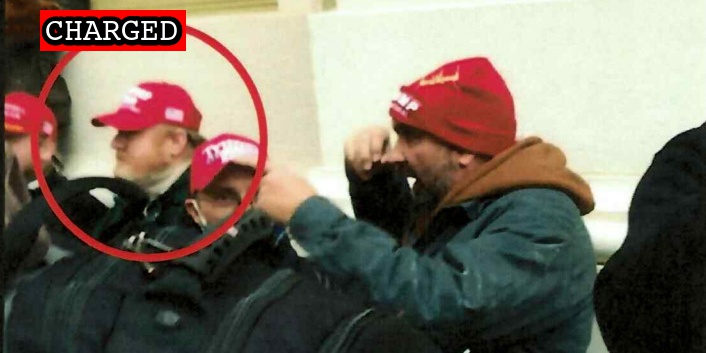
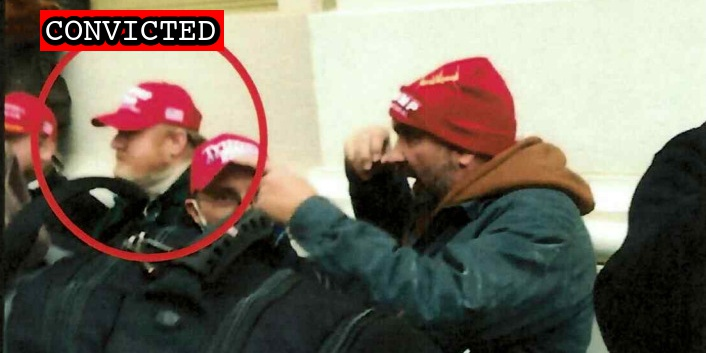
Latest import

Changed region(s): [[0.0935, 0.0, 0.3428, 0.1558]]

diff --git a/docs/_suspects/kevin-cronin.md b/docs/_suspects/kevin-cronin.md
@@ -4,16 +4,16 @@ lastName: Cronin
 hashtag:
 aka:
 residence: Washington
-status: Charged
+status: Convicted
 date: 2022-06-07
 charged: 2022-06-07
 indicted:
-convicted:
+convicted: 2023-01-06
 acquitted:
 sentenced:
 dismissed:
 deceased:
-plea_hearing:
+plea_hearing: 2023-01-06
 trial_date:
 trial_type:
 jury_selection:
@@ -32,7 +32,7 @@ raid:
 perpwalk:
 quote:
 title: Kevin Cronin charged on June 7th, 2022
-description: Click for latest case details. Suspects innocent until proven guilty.
+description: Convicted on January 6, 2023. Click for latest case details.
 author: seditiontrack
 layout: suspect
 published: true
@@ -41,8 +41,13 @@ caseName: USA v. CRONIN
 judge: Amy B. Jackson
 videos:
 charges:
+- code: 40 USC § 5104(e)(2)(G)
+  title: Parading, demonstrating or picketing in a Capitol building
+  url: https://www.law.cornell.edu/uscode/text/40/5104
+  felony: false
 sentence:
 ---
 - [News Report](https://www.king5.com/article/news/crime/puyallup-capitol-riot-suspects-charges/281-19245a3b-5271-4dc1-8460-a3c7fa150fe6)
 - [Complaint](https://www.justice.gov/usao-dc/case-multi-defendant/file/1512656/download)
 - [Statement of Facts](https://www.justice.gov/usao-dc/case-multi-defendant/file/1512661/download)
+- [Plea Agreement](https://www.justice.gov/usao-dc/case-multi-defendant/file/1562976/download)

diff --git a/docs/_suspects/shawn-witzemann.md b/docs/_suspects/shawn-witzemann.md
@@ -41,17 +41,16 @@ caseName: USA v. WITZEMANN
 judge: Thomas F. Hogan
 videos:
 charges:
-  - code: 40 USC § 5104(e)(2)(G)
-    title: Parading, demonstrating or picketing in a Capitol building
-    url: https://www.law.cornell.edu/uscode/text/40/5104
-    felony: false
+- code: 40 USC § 5104(e)(2)(G)
+  title: Parading, demonstrating or picketing in a Capitol building
+  url: https://www.law.cornell.edu/uscode/text/40/5104
+  felony: false
 sentence:
   - 7 days incarceration
   - 2 years probation
   - 60 hours community service
   - $500 restitution
 ---
-
 - [News Report](https://www.krqe.com/news/crime/farmington-man-charged-for-alleged-role-in-capitol-riot/)
 - [Complaint](https://www.justice.gov/usao-dc/case-multi-defendant/file/1385351/download)
 - [Statement of Facts](https://www.justice.gov/usao-dc/case-multi-defendant/file/1385356/download)

diff --git a/docs/_suspects/rafael-rondon.md b/docs/_suspects/rafael-rondon.md
@@ -50,3 +50,4 @@ sentence:
 - [News Report](https://www.wwnytv.com/2021/10/01/watertown-man-his-mother-facing-federal-charges-jan-6th-capitol-riot/)
 - [Statement of Facts](https://extremism.gwu.edu/sites/g/files/zaxdzs2191/f/Maryann%20Mooney-Rondon%20and%20Rafael%20Rondon%20Statement%20of%20Facts.pdf)
 - [Indictment](https://extremism.gwu.edu/sites/g/files/zaxdzs2191/f/Maryann%20Mooney-Rondon%20and%20Rafael%20Rondon%20Indictment.pdf)
+- [Plea Agreement](https://www.justice.gov/usao-dc/case-multi-defendant/file/1562791/download)

diff --git a/docs/_suspects/john-gould.md b/docs/_suspects/john-gould.md
@@ -50,3 +50,4 @@ sentence:
 - [News Report](https://www.thedailybeast.com/alleged-capitol-rioter-john-gould-arrested-after-getting-outed-by-rioting-co-worker-jonathan-lauren)
 - [Statement of Facts](https://www.justice.gov/usao-dc/case-multi-defendant/file/1483526/download)
 - [Information](https://storage.courtlistener.com/recap/gov.uscourts.dcd.247423/gov.uscourts.dcd.247423.20.0.pdf)
+- [Plea Agreement](https://www.justice.gov/usao-dc/case-multi-defendant/file/1562786/download)

diff --git a/docs/_suspects/gregory-nix.md b/docs/_suspects/gregory-nix.md
@@ -50,3 +50,4 @@ sentence:
 - [News Report](https://www.al.com/news/birmingham/2021/11/alabama-man-52-charged-with-assault-on-law-enforcement-during-jan-6-breach-at-us-capitol.html)
 - [Statement of Facts](https://www.justice.gov/usao-dc/case-multi-defendant/file/1458896/download)
 - [Indictment](https://www.justice.gov/usao-dc/case-multi-defendant/file/1458886/download)
+- [Plea Agreement](https://www.justice.gov/usao-dc/case-multi-defendant/file/1562711/download)

diff --git a/docs/_suspects/thomas-carey.md b/docs/_suspects/thomas-carey.md
@@ -51,3 +51,4 @@ sentence:
 - [Complaint](https://www.justice.gov/usao-dc/case-multi-defendant/file/1536781/download)
 - [Statement of Facts](https://www.justice.gov/usao-dc/case-multi-defendant/file/1536786/download)
 - [DOJ Press Release](https://www.justice.gov/usao-dc/pr/virginia-man-arrested-felony-and-misdemeanor-charges-actions-during-jan-6-capitol-breach)
+- [Plea Agreement](https://www.justice.gov/usao-dc/case-multi-defendant/file/1562701/download)

diff --git a/docs/_suspects/aaron-mileur.md b/docs/_suspects/aaron-mileur.md
@@ -50,3 +50,4 @@ sentence:
 - [News Report](https://www.ktoo.org/2021/03/16/anchorage-man-arrested-charged-with-participating-in-us-capitol-siege/)
 - [Statement of Facts](https://www.justice.gov/usao-dc/case-multi-defendant/file/1393656/download)
 - [Information](https://www.justice.gov/usao-dc/case-multi-defendant/file/1393661/download)
+- [Plea Agreement](https://www.justice.gov/usao-dc/case-multi-defendant/file/1562691/download)

diff --git a/docs/_suspects/carrie-williams.md b/docs/_suspects/carrie-williams.md
@@ -51,3 +51,4 @@ sentence:
 - [Arrest Warrant](https://storage.courtlistener.com/recap/gov.uscourts.dcd.244335/gov.uscourts.dcd.244335.8.0.pdf)
 - [Complaint](https://www.justice.gov/usao-dc/case-multi-defendant/file/1534426/download)
 - [Statement of Facts](https://www.justice.gov/usao-dc/case-multi-defendant/file/1534431/download)
+- [Plea Agreement](https://www.justice.gov/usao-dc/case-multi-defendant/file/1562696/download)

diff --git a/docs/_suspects/james-grant.md b/docs/_suspects/james-grant.md
@@ -18,7 +18,7 @@ trial_date: 2023-03-06
 trial_type: Jury Trial
 jury_selection: 2023-02-21
 sentencing:
-status_conference: 2023-01-13
+status_conference:
 age: 29
 occupation:
 affiliations:

diff --git a/docs/_suspects/jason-blythe.md b/docs/_suspects/jason-blythe.md
@@ -18,7 +18,7 @@ trial_date: 2023-03-06
 trial_type: Jury Trial
 jury_selection: 2023-02-21
 sentencing:
-status_conference: 2023-01-13
+status_conference:
 age: 26
 occupation:
 affiliations:

diff --git a/docs/_suspects/clifford-mackrell.md b/docs/_suspects/clifford-mackrell.md
@@ -18,7 +18,7 @@ trial_date: 2023-05-10
 trial_type: Jury Trial
 jury_selection:
 sentencing:
-status_conference: 2023-01-17
+status_conference:
 age: 20
 occupation:
 affiliations:

diff --git a/docs/_suspects/victoria-white.md b/docs/_suspects/victoria-white.md
@@ -18,7 +18,7 @@ trial_date: 2023-05-08
 trial_type: Jury Trial
 jury_selection:
 sentencing:
-status_conference: 2023-01-13
+status_conference:
 age: 39
 occupation:
 affiliations:
